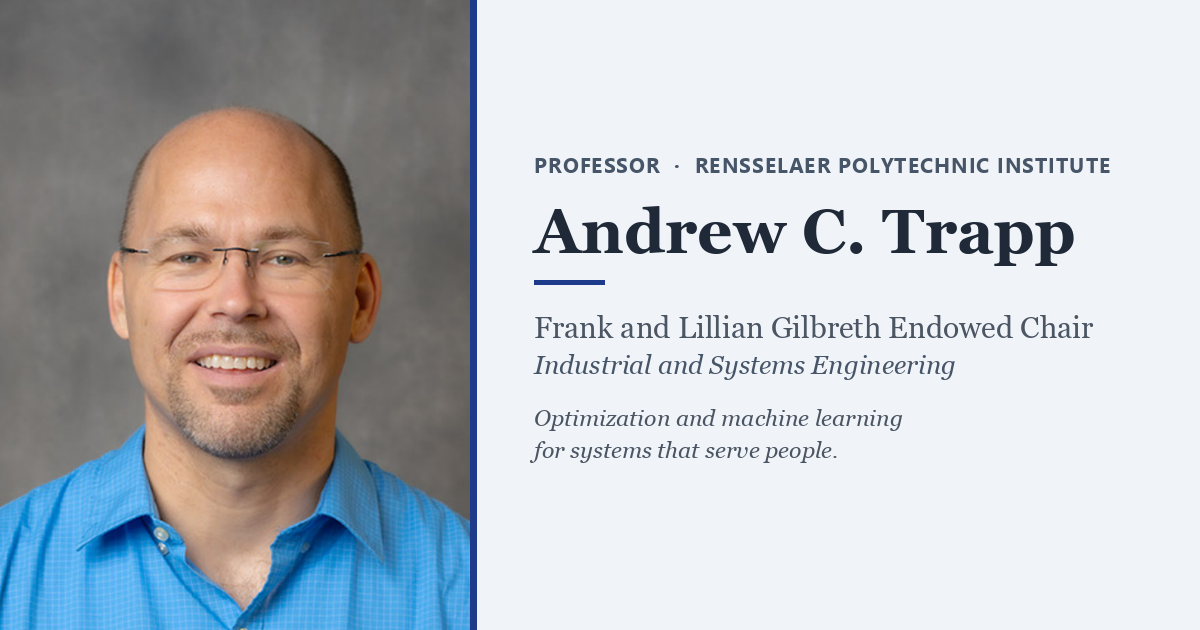
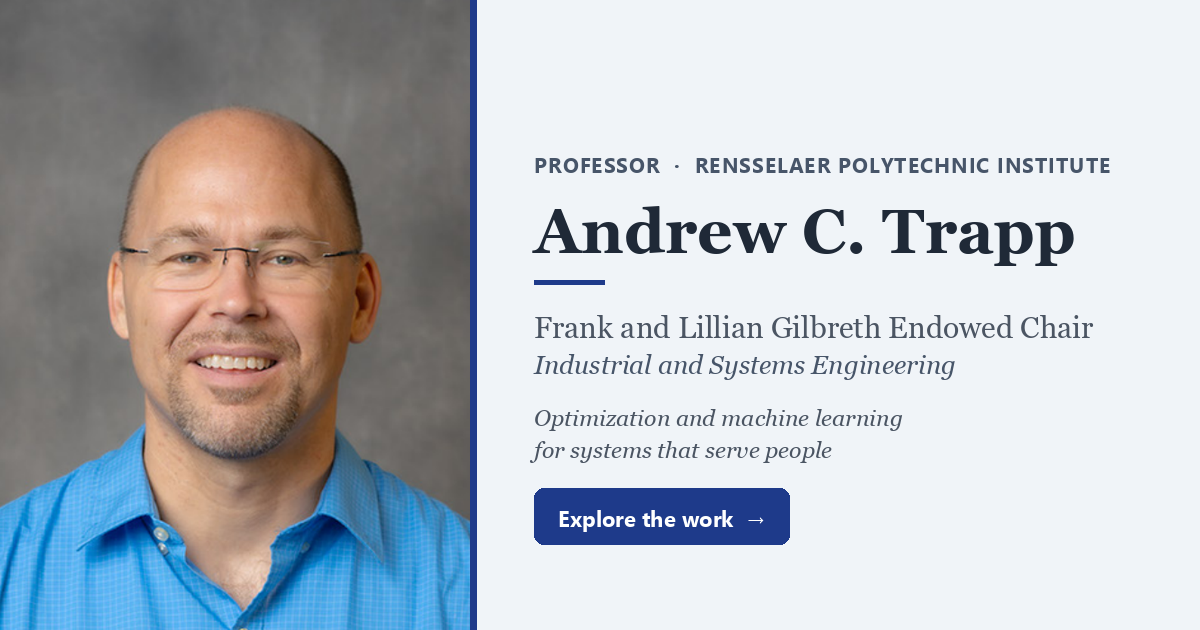
updated index and og_card

Changed region(s): [[0.4317, 0.754, 0.6783, 0.8746]]

diff --git a/index.html b/index.html
@@ -6,13 +6,13 @@
     <meta http-equiv="X-UA-Compatible" content="ie=edge" />
 
     <!-- SEO description -->
-    <meta name="description" content="Andrew C. Trapp, Professor and Frank and Lillian Gilbreth Endowed Chair in Industrial and Systems Engineering at Rensselaer Polytechnic Institute. Research in optimization, machine learning, and decision support for public and nonprofit systems." />
+    <meta name="description" content="Professor and Gilbreth Endowed Chair in Industrial and Systems Engineering at RPI, applying optimization and machine learning to systems that serve people." />
 
     <!-- Open Graph / link preview (default = profile). To feature a specific paper on a LinkedIn/Teams post, swap the four og: lines using the template at the bottom of this block. -->
     <meta property="og:type" content="website" />
     <meta property="og:site_name" content="Andrew C. Trapp" />
-    <meta property="og:title" content="Andrew C. Trapp" />
-    <meta property="og:description" content="Professor and Frank and Lillian Gilbreth Endowed Chair in Industrial and Systems Engineering at Rensselaer Polytechnic Institute, applying optimization, machine learning, and decision support to public and nonprofit systems." />
+    <meta property="og:title" content="Andrew C. Trapp | Optimization for Societal Impact" />
+    <meta property="og:description" content="Professor and Gilbreth Endowed Chair in Industrial and Systems Engineering at RPI, applying optimization and machine learning to systems that serve people." />
     <meta property="og:image" content="https://andrewctrapp.github.io/img/og_card.png" />
     <meta property="og:image:width" content="1200" />
     <meta property="og:image:height" content="630" />
@@ -21,8 +21,8 @@
 
     <!-- Twitter / X card -->
     <meta name="twitter:card" content="summary_large_image" />
-    <meta name="twitter:title" content="Andrew C. Trapp" />
-    <meta name="twitter:description" content="Professor and Gilbreth Endowed Chair in Industrial and Systems Engineering at RPI, applying optimization and machine learning to public and nonprofit systems." />
+    <meta name="twitter:title" content="Andrew C. Trapp | Optimization for Societal Impact" />
+    <meta name="twitter:description" content="Professor and Gilbreth Endowed Chair in Industrial and Systems Engineering at RPI, applying optimization and machine learning to systems that serve people." />
     <meta name="twitter:image" content="https://andrewctrapp.github.io/img/og_card.png" />
 
     <!-- TEMPLATE to feature a specific paper instead of the profile: replace the active og:title/og:description/og:image/og:url above with a version of these.
